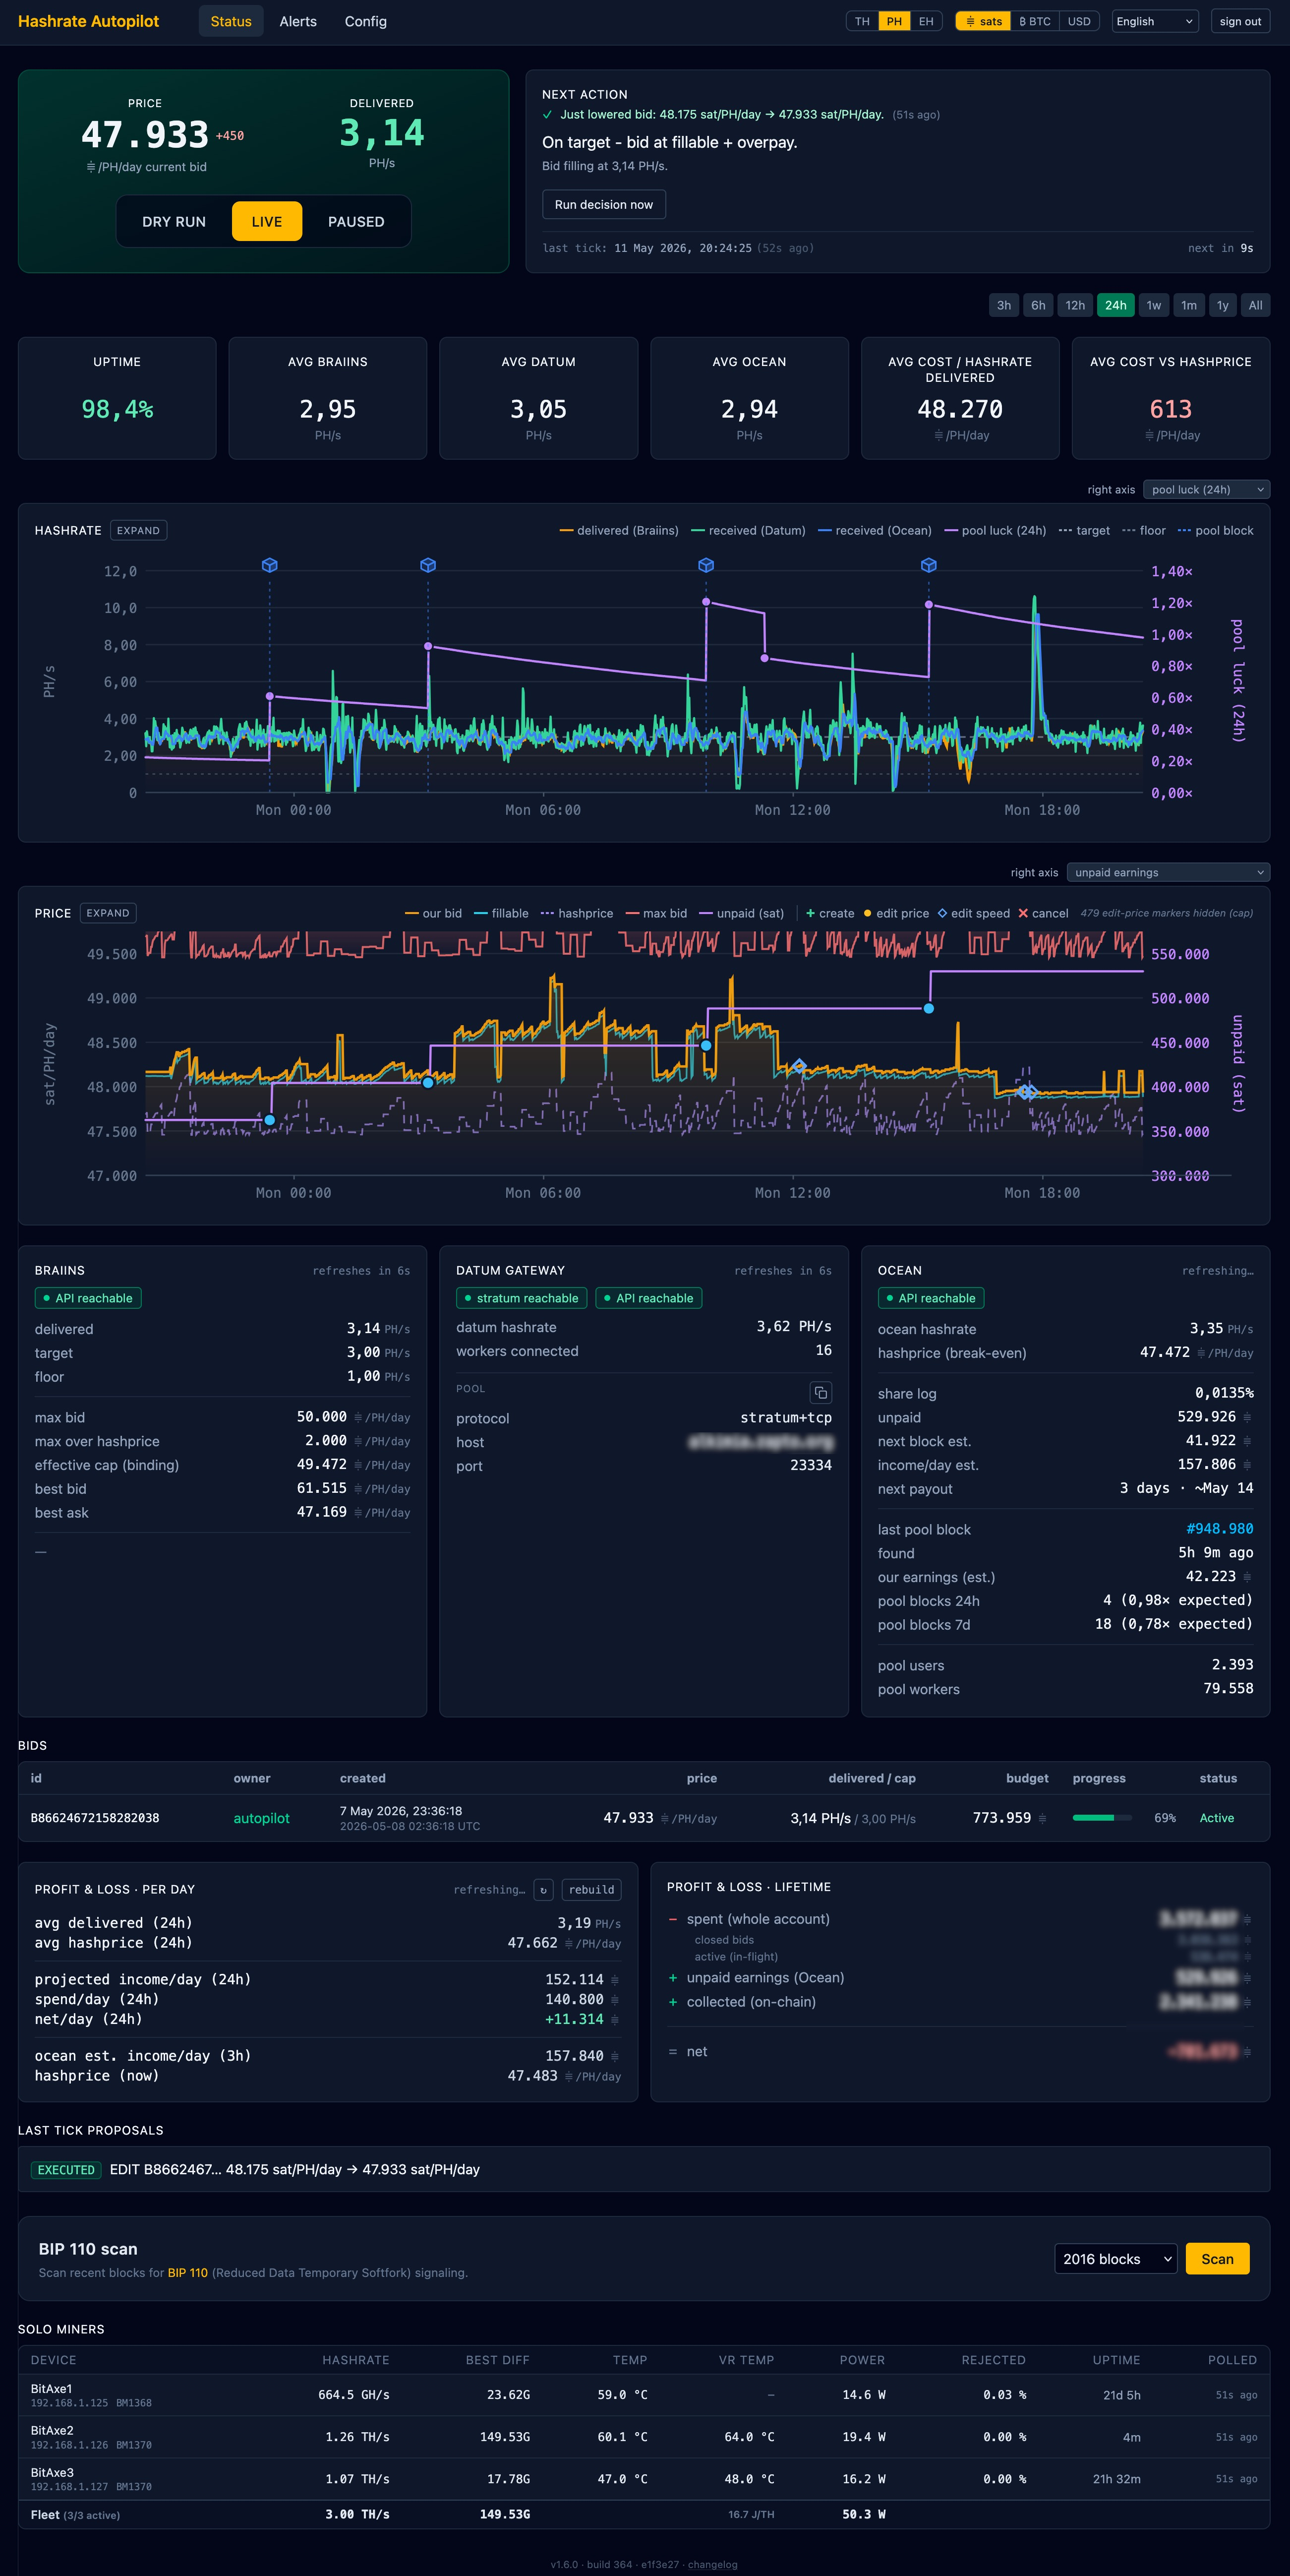
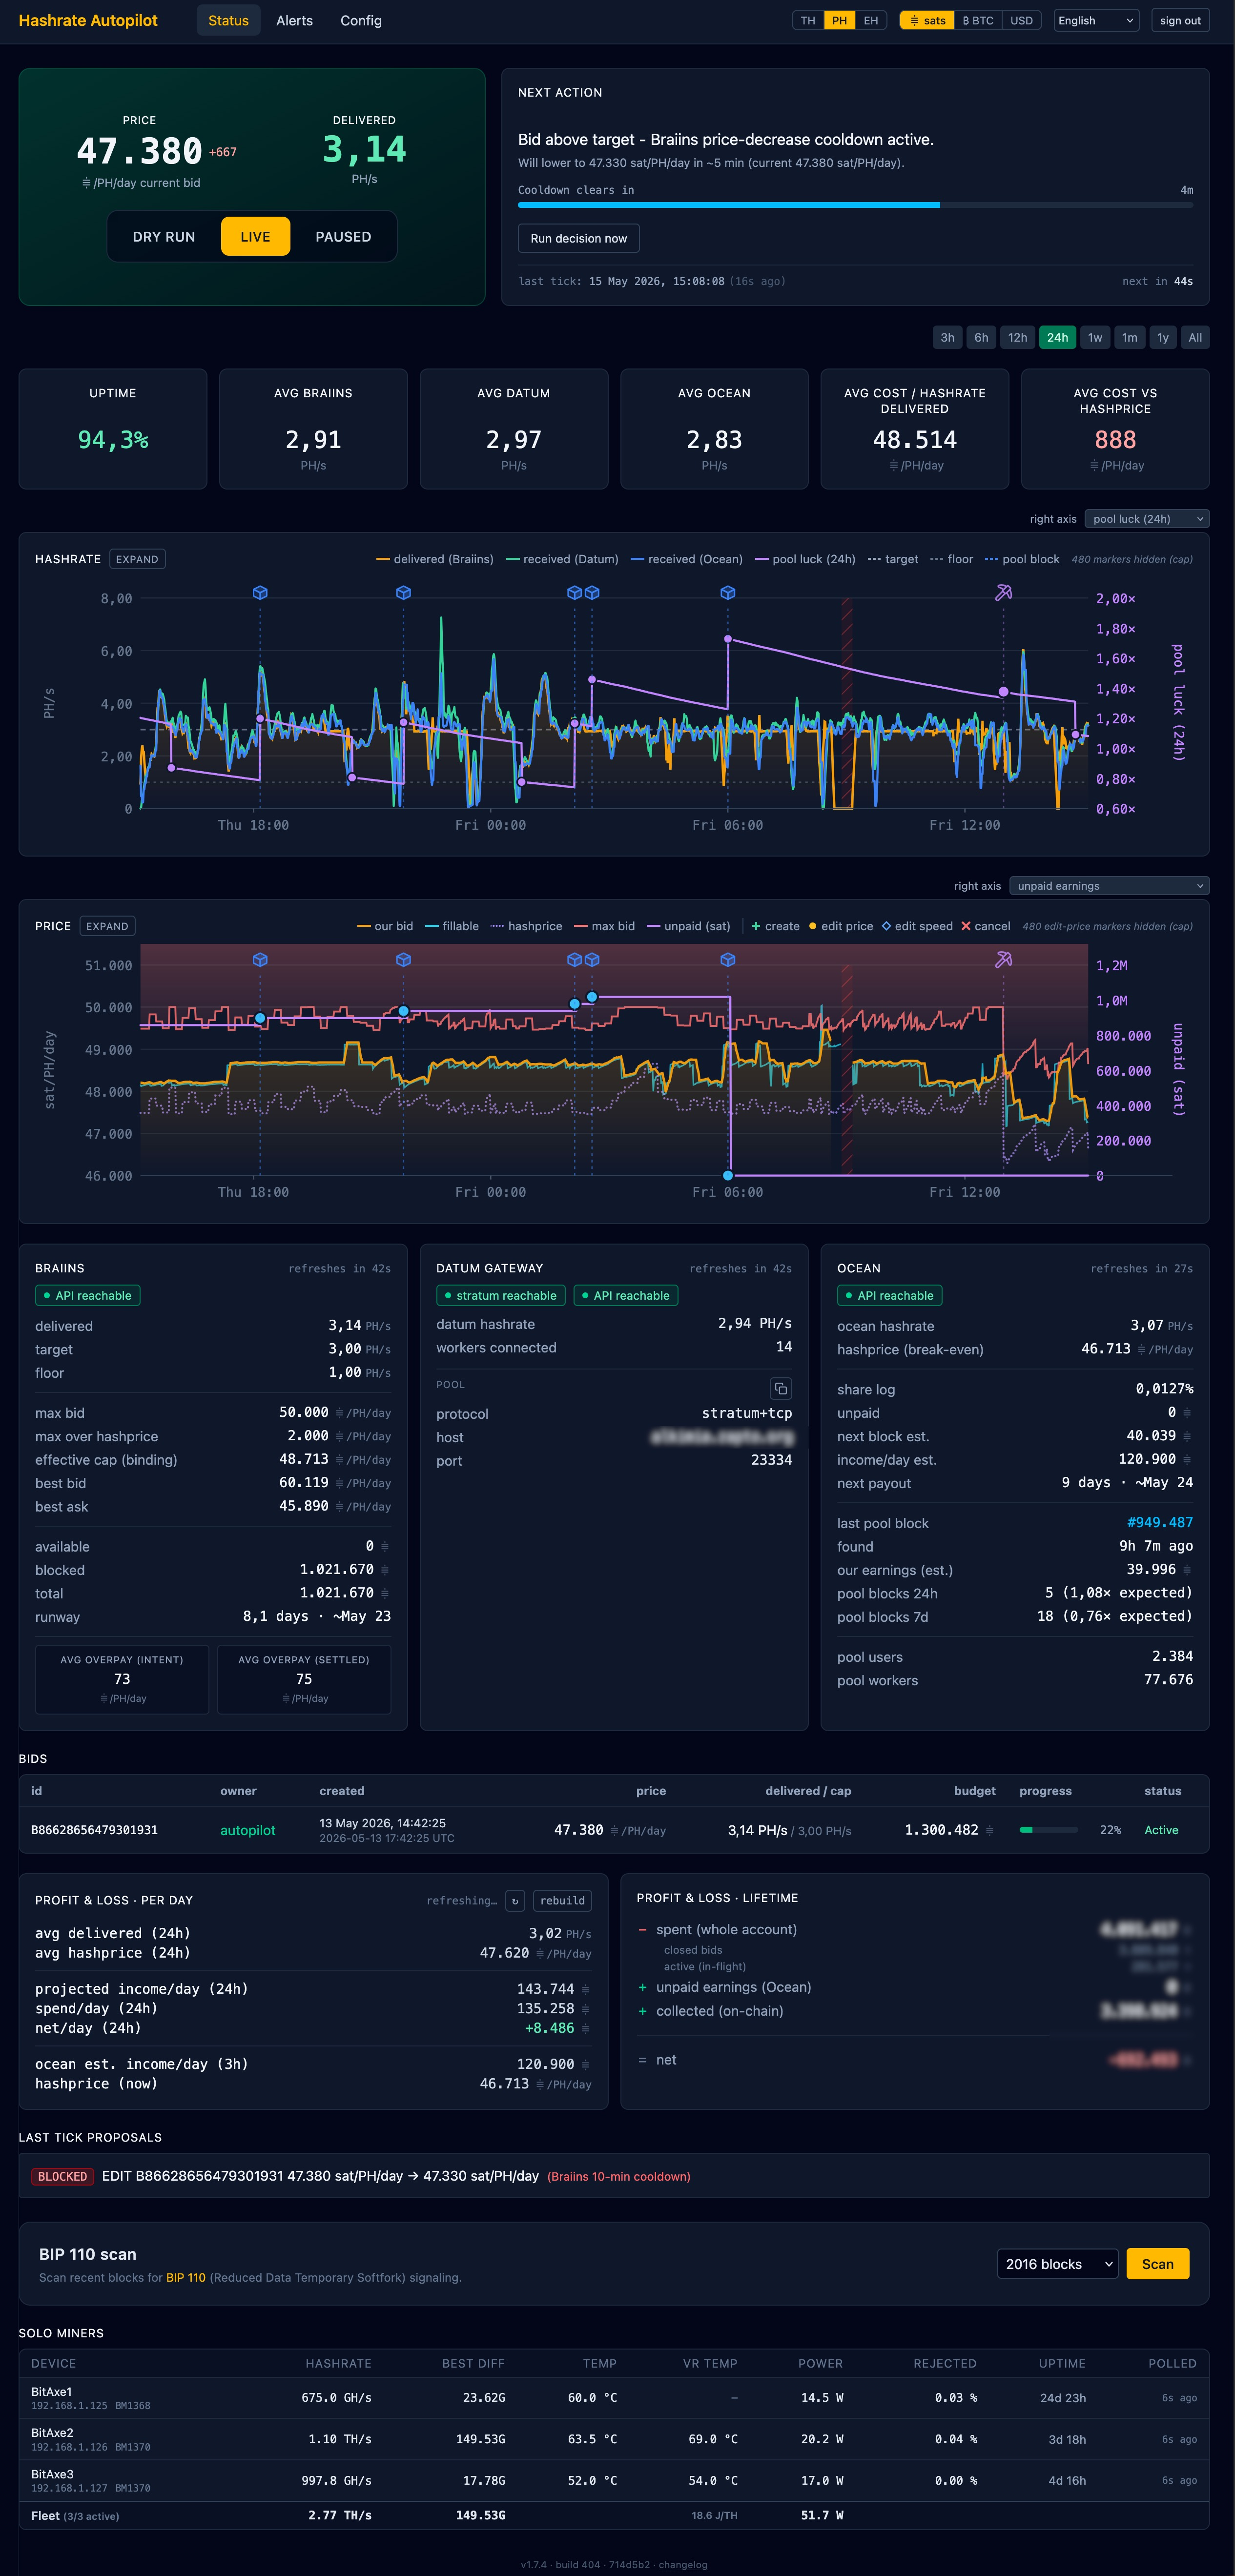
docs: update README + spec for #174, #175, #176 (retarget markers + price chart mirroring)
README: pool-luck section explains retarget-induced luck jumps with
before/after tooltip; block-marker section notes price chart mirroring
and pickaxe icons; dashboard intro and feature list mention retarget
markers on both charts.

Spec bumped to v2.5: hashrate chart section covers pool-luck retarget
markers (#174) and always-visible pickaxe top icon (#175); price chart
section covers mirrored block + retarget markers (#176). Version history
row added covering #171-#176.

diff --git a/README.md b/README.md
@@ -13,9 +13,9 @@ PAUSED switch on the left; the Next Action panel on the right explaining what th
 do and when. The window-averaged effective rate (derived per-tick from the delta of Braiins's
 `amount_consumed_sat` counter divided by delivered hashrate × elapsed time) lives on the stats bar below
 as **avg cost / PH delivered**, where the post-hoc range-averaged framing makes more sense. Below the
-hero sit range-selectable hashrate and price charts overlayed with bid events and block markers. The
-price chart draws your bid (amber), the fillable ask the controller tracks (cyan), hashprice (violet),
-and the safety ceiling (pink); the per-tick effective rate is a separate emerald line, off by default
+hero sit range-selectable hashrate and price charts overlayed with bid events, block markers, and
+difficulty-retarget pickaxe icons. The price chart draws your bid (amber), the fillable ask the
+controller tracks (cyan), hashprice (violet), and the safety ceiling (pink); the per-tick effective rate is a separate emerald line, off by default
 behind a config toggle because it's dramatically more volatile than the tracking lines and hijacks the
 Y-axis when enabled. Then a stats strip (uptime, avg hashrate per source - Braiins / Datum / Ocean
 side-by-side, cost per PH delivered, effective rate vs hashprice), service panels for Braiins / Datum
@@ -151,7 +151,7 @@ Full design: [`docs/spec.md`](docs/spec.md) · [`docs/architecture.md`](docs/arc
 - **Dashboard** - hashrate and price charts with time-range picker (3h / 6h / 12h / 24h / 1w / 1m / 1y /
   all), bid event markers on the price chart (each dot corresponds to a CREATE / EDIT / CANCEL; click to
   pin a detail panel that lists the target-price inputs at that tick - fillable, overpay, hashprice,
-  caps, effective cap, plus a JSON export button), block markers on the hashrate chart, per-series
+  caps, effective cap, plus a JSON export button), block markers and retarget pickaxes on both charts, per-series
   rolling-mean smoothing configurable per chart (hashrate smoothing per-source; price chart smooths only
   `our bid` and `effective` - fillable / hashprice / max bid stay raw), stats bar (uptime, three
   side-by-side avg-hashrate cards for Braiins / Datum / Ocean, cost metrics), service panels that include
@@ -165,16 +165,21 @@ Full design: [`docs/spec.md`](docs/spec.md) · [`docs/architecture.md`](docs/arc
   (`observed / Poisson-expected`) over a 24h or 7d trailing window. Decays continuously between finds, jumps
   on each new pool block. The OCEAN panel shows the same number as a "X.XX× expected" annotation next to
   `pool blocks 24h / 7d` so chart and panel always agree. Tooltips compute Ocean's live network-hashrate
-  share and the implied expected block count for the current window.
+  share and the implied expected block count for the current window. Difficulty retargets cause a
+  discontinuous luck jump (higher difficulty = smaller pool share = fewer expected blocks = higher luck);
+  retarget markers appear on the luck line with before/after luck values in the tooltip so the operator
+  can see exactly how the retarget shifted the reading.
 - **Pool-block marker shapes** - the cubes on the Hashrate chart's pool-block row carry a precedence-ordered
   vocabulary so the rare events stand out. **Own block** (Ocean credited the coinbase to your payout
-  address - the lottery-win case) renders as a **gold crown** 👑. **BIP 110-signalling pool block**
+  address - the lottery-win case) renders as a **gold crown**. **BIP 110-signalling pool block**
   (header version bit 4 set; Reduced Data soft fork) renders as a **yellow cube**. **Default pool block**
   renders as a **blue cube**. Tooltip header label and colour follow the same precedence (own > BIP 110 >
   default). Detection happens daemon-side via your bitcoind RPC (`getblockheader`) or Electrs
   (`blockchain.block.header`) - no third-party API. A separate **BIP 110 scan card** on the Status page
   lets you scan the last N blocks (configurable up to 2016) and see every signaling block with timestamp,
-  version bits, and explorer link.
+  version bits, and explorer link. Both block markers and **difficulty-retarget pickaxe icons** (violet,
+  with dashed vertical lines) are mirrored onto the price chart, so the operator sees these events in
+  context on both charts.
 - **Telegram notifications** - three severity tiers across ten event classes. **IMPORTANT** (red, with a
   retry ladder and paired recovery messages): Datum stratum unreachable, hashrate below floor, zero
   hashrate, Braiins API unreachable, unknown bid detected, bid sustained-paused, wallet runway below

diff --git a/docs/spec.md b/docs/spec.md
@@ -1,6 +1,6 @@
-# Hashrate Autopilot - Specification (v2.4)
+# Hashrate Autopilot - Specification (v2.5)
 
-> Status: current, aligned with code through 2026-05-09 (v1.5.4 release).
+> Status: current, aligned with code through 2026-05-15.
 >
 > This spec has been through three pricing regimes. **v1.x** used a depth-aware "fillable + overpay" controller with escalation timers, lowering-patience, and a dampening subsystem. **v2.0** (2026-04-23, same day) retired all of it on the hypothesis that Braiins matched CLOB-style and the bid was a matching-access ceiling. **v2.1** (2026-04-23, hours later) reversed v2.0 after a direct A/B on the live account showed Braiins matches pay-your-bid - the bid price *is* the paid price. The current controller tracks `fillable_ask + overpay_sat_per_eh_day` (the v1.x primitive) without the v1.x timer machinery (which was only needed to simulate that target under a misread of the mechanic); the retired escalation/patience/min-lower-delta knobs stay retired.
 >
@@ -581,8 +581,8 @@ perimeter; the dashboard has a shared-password second gate, not full auth.
   DATUM, AVG OCEAN (three side-by-side hashrate averages), AVG COST / PH DELIVERED (same metric as the
   hero PRICE card; deliberately duplicated so each panel stands alone), AVG COST VS HASHPRICE
   (effective-vs-hashprice delta, signed).
-- **Hashrate chart.** Three series: `delivered (Braiins)` (amber), `received (Datum)` (emerald), `received (Ocean)` (blue). Target + floor as dashed horizontal references. Per-series rolling-mean smoothing via `braiins_hashrate_smoothing_minutes` and `datum_hashrate_smoothing_minutes`; Ocean is server-smoothed. Each chart's title carries an **expand / collapse toggle** (#105) that doubles the chart height for closer reading. Pool-block markers (one per Ocean-credited pool block) follow a precedence-ordered shape vocabulary (#115): own block (Ocean credited the coinbase to our payout address) -> **gold CROWN**; BIP 110-signalling pool block -> **yellow CUBE** (#94, detection: `(version & 0xe0000000) === 0x20000000 && (version & 0x10) !== 0`, block-header version cached per `block_hash` via migration 0058); default pool block -> blue cube. Tooltip header label and color follow the same precedence (own > BIP 110 > default). Click opens the configured block explorer. A right-axis dropdown above the chart (#93, persisted to localStorage) selects one secondary series: `none` (default), `share_log %`, `network difficulty` (renders **difficulty-retarget markers** at every detected retarget tick - per-tick step > 0.5% with sustained-value check on the next non-null tick to filter spurious bucket-AVG detections; tooltip shows date, new difficulty, previous epoch's difficulty, and % change), `pool hashrate`, `pool luck (24h)` / `pool luck (7d)` (#92, gap-based per-tick luck = `count_in_window / (pool_share × (window + elapsed) / 600)`).
-- **Price chart.** Four always-on lines: `our bid` (amber), `fillable` (cyan, the controller's tracking anchor), `hashprice` (violet, dashed), `max bid` / effective ceiling (red, with a red gradient above the line marking the off-limits region). Bid-event dots (yellow / cyan / red) on the amber line mark CREATE / EDIT_PRICE / EDIT_SPEED / CANCEL events; clicking pins a detail panel with `fillable`, `overpay`, `hashprice`, cap inputs, effective cap at that tick, and a JSON export button. Per-range filtering: 3h-24h shows all four kinds; 1w drops EDIT_PRICE; 1m / 1y / all show none. See `CHART_RANGE_SPECS[r].showEventKinds` in `packages/shared/src/chart-ranges.ts`. A right-axis dropdown (#93) selects one secondary series: `none` (default), `effective rate` (#90/#93), `block reward`, `BTC/USD`, `unpaid earnings`, **`paid earnings (lifetime)`** (#102, monotonically non-decreasing cumulative on-chain payouts to the configured address; per-tick `paid_total_sat` derived from `reward_events` via migration 0066), **`lifetime earnings (paid + unpaid)`** (the natural metric that survives payout cliffs - paid_total + ocean_unpaid). When the right-axis is set to a step-event series (paid / unpaid / lifetime earnings), the chart renders **clickable dots** at each event - on-chain payout dots deep-link via `block_explorer_tx_url_template`, pool-block dots reuse the rich tooltip shape from the Hashrate chart (reward, our share, BIP 110 signal, explorer link).
+- **Hashrate chart.** Three series: `delivered (Braiins)` (amber), `received (Datum)` (emerald), `received (Ocean)` (blue). Target + floor as dashed horizontal references. Per-series rolling-mean smoothing via `braiins_hashrate_smoothing_minutes` and `datum_hashrate_smoothing_minutes`; Ocean is server-smoothed. Each chart's title carries an **expand / collapse toggle** (#105) that doubles the chart height for closer reading. Pool-block markers (one per Ocean-credited pool block) follow a precedence-ordered shape vocabulary (#115): own block (Ocean credited the coinbase to our payout address) -> **gold CROWN**; BIP 110-signalling pool block -> **yellow CUBE** (#94, detection: `(version & 0xe0000000) === 0x20000000 && (version & 0x10) !== 0`, block-header version cached per `block_hash` via migration 0058); default pool block -> blue cube. Tooltip header label and color follow the same precedence (own > BIP 110 > default). Click opens the configured block explorer. A right-axis dropdown above the chart (#93, persisted to localStorage) selects one secondary series: `none` (default), `share_log %`, `network difficulty` (renders **difficulty-retarget markers** at every detected retarget tick - per-tick step > 0.5% with sustained-value check on the next non-null tick to filter spurious bucket-AVG detections; tooltip shows date, new difficulty, previous epoch's difficulty, and % change), `pool hashrate`, `pool luck (24h)` / `pool luck (7d)` (#92, gap-based per-tick luck = `count_in_window / (pool_share × (window + elapsed) / 600)`; retarget markers also appear on the luck line (#174) with luck-before/luck-after values in the tooltip, since a difficulty retarget shifts pool_share and causes a discontinuous luck jump). Difficulty retargets additionally render a **pickaxe icon** (Lucide `Pickaxe`, violet) at the top of the chart with a dashed vertical line (#175), always visible regardless of right-axis selection - the same top-of-chart treatment as block cubes/crowns. Hover/click opens the retarget tooltip.
+- **Price chart.** Four always-on lines: `our bid` (amber), `fillable` (cyan, the controller's tracking anchor), `hashprice` (violet, dashed), `max bid` / effective ceiling (red, with a red gradient above the line marking the off-limits region). Bid-event dots (yellow / cyan / red) on the amber line mark CREATE / EDIT_PRICE / EDIT_SPEED / CANCEL events; clicking pins a detail panel with `fillable`, `overpay`, `hashprice`, cap inputs, effective cap at that tick, and a JSON export button. Per-range filtering: 3h-24h shows all four kinds; 1w drops EDIT_PRICE; 1m / 1y / all show none. See `CHART_RANGE_SPECS[r].showEventKinds` in `packages/shared/src/chart-ranges.ts`. Pool-block markers and difficulty-retarget markers are mirrored from the hashrate chart (#176) - the same top-of-chart cubes/crowns/BIP-110 shapes and pickaxe icons with dashed vertical lines, with identical tooltips. A right-axis dropdown (#93) selects one secondary series: `none` (default), `effective rate` (#90/#93), `block reward`, `BTC/USD`, `unpaid earnings`, **`paid earnings (lifetime)`** (#102, monotonically non-decreasing cumulative on-chain payouts to the configured address; per-tick `paid_total_sat` derived from `reward_events` via migration 0066), **`lifetime earnings (paid + unpaid)`** (the natural metric that survives payout cliffs - paid_total + ocean_unpaid). When the right-axis is set to a step-event series (paid / unpaid / lifetime earnings), the chart renders **clickable dots** at each event - on-chain payout dots deep-link via `block_explorer_tx_url_template`, pool-block dots reuse the rich tooltip shape from the Hashrate chart (reward, our share, BIP 110 signal, explorer link).
 - **Stale-URL banner** (#113, top of page when triggered). Renders when an active Braiins bid was created with a `dest_upstream.url` whose hostname:port (case-insensitive) differs from current `destination_pool_url`. IP-only DDNS pushes for the same hostname don't trigger it. Banner shows old vs new host:port, the unconsumed_sat that would be refunded, an exit-fee caveat, and a confirm-then-cancel button that calls Braiins's CANCEL_BID. Next decision tick auto-creates a fresh bid with the new URL via the existing CREATE_BID gate.
 - **Service panels (three-column).** BRAIINS (API reachability, delivered vs target, wallet balance,
   runway at current spend rate). DATUM GATEWAY (stratum reachability, gateway-measured hashrate,
@@ -733,3 +733,4 @@ Still open:
 | 2.2     | 2026-04-25 | Appliance packaging release (v1.3.0; closes umbrella issue #56). Three resolution layers for both config and secrets: `BHA_*` env vars (priority 1) > `.env.sops.yaml` (priority 2) > `secrets`/`config` rows in `state.db` (priority 3, populated by the new first-run web wizard). Migration 0047 adds the `secrets` table. Daemon enters `NEEDS_SETUP` mode when both config and secrets are absent, exposing only the wizard's three endpoints (`/api/health`, `/api/setup-info`, `/api/setup`); on POST /api/setup it transitions in-place to operational mode without a process restart. New public `/api/health` endpoint (`{ status, mode }`) doubles as the appliance liveness probe and the dashboard's setup-mode probe. Dockerfile + GHCR publish workflow (multi-arch `linux/amd64` + `linux/arm64`); image at `ghcr.io/<owner>/hashrate-autopilot:vX.Y.Z`. Bitcoind RPC creds auto-detect from the standard `BITCOIN_RPC_*` env vars Umbrel/Start9 inject. Wizard auto-binds the worker identity (`<btc-address>.<label>`) to the BTC payout address with a hard-red mismatch warning; same logic ported into the Config page. Power-user `setup.ts` + SOPS path is unchanged.                                                                                                                                                                                                                                                                                                                                                                                                                                                     |
 | 2.3     | 2026-05-02 | Spec-consistency sweep through v1.4.8. §12.1 hero PRICE card description corrected to "live current owned-bid price" (the post-#69 reality - the card has shown the live bid for some time; the older "window-averaged effective rate" framing was a stale paragraph that contradicted the README and the running dashboard). No behaviour change; pure doc correctness pass. Done in lockstep with architecture v1.6 (schema additions through migration 0051, P&L spend-source clarification, /healthz -> /api/health) and a research.md tweak that retired the historical 300 sat/PH/day default in §1.8 in favour of the live 1,000. |
 | 2.4     | 2026-05-09 | Catch-up sweep with the May-2026 feature run (v1.5.0 -> v1.5.4). §6 flips "No external notification channel" to the shipped Telegram sink; §8 gains the Telegram config block (`telegram_chat_id`, `telegram_bot_token`, `telegram_instance_label`, `notifications_muted`, `notification_retry_interval_minutes`, `notification_disabled_event_classes`, `notify_on_pool_block_credit`), the Daemon-managed Dynamic DNS block (`ddns_provider` for `''`/`noip`/`duckdns`/`dyndns2`, `ddns_hostname`, `ddns_username`, `ddns_credential`, `ddns_update_url`), `block_explorer_tx_url_template`, the new bundled `ocean-mining-found-a-block` sound, and the `wallet_runway_alert_days = 0 = disabled` semantic with the new default of 0. §9.1 promoted from "planned" to "shipped" with the per-event-class opt-out (#106), inline-keyboard ack/snooze (#109), and per-instance label prefix layered on. §12.1 updated for the price chart's `paid earnings (lifetime)` and `lifetime earnings (paid + unpaid)` series (#102), the difficulty-retarget markers, the chart expand toggle (#105), the own-block-vs-BIP-110 marker swap (#115), and the stale-URL banner (#113). §12.2 rewritten for the four-tab Config layout with cross-tab search (#107) and the Test connection buttons across Pool URL / Datum API / DDNS (#112) / bitcoind / electrs / Telegram. §12.3 split: new dedicated Alerts page section (#100 / #109 with the bulk-ack and unacked-only filter), and §12.4 inherits the "things v1 listed but doesn't ship" honesty list (Telegram dropped from that list now that it ships). §14 "Dynamic home IP" landmine flipped from `[unhandled]` to `[handled]` against the new DDNS feature. Generalised "on the Umbrel node" prose throughout - the Bitcoin node can run on any platform; Umbrel is one option among several. |
+| 2.5     | 2026-05-15 | §12.1 Hashrate chart: retarget markers now appear on pool luck (24h/7d) overlays with luck-before/after tooltip (#174); pickaxe icon (Lucide) at chart top for retargets, always visible regardless of right-axis selection (#175). §12.1 Price chart: pool-block markers (cubes/crowns/BIP-110) and retarget pickaxes mirrored from the Hashrate chart (#176). Also covers #171 (payout-triggering block in Telegram), #172 (chart-marker cap extended to pool blocks + reward events), #173 (braiins_reachable discriminator for marketplace-empty vs API-unreachable). |